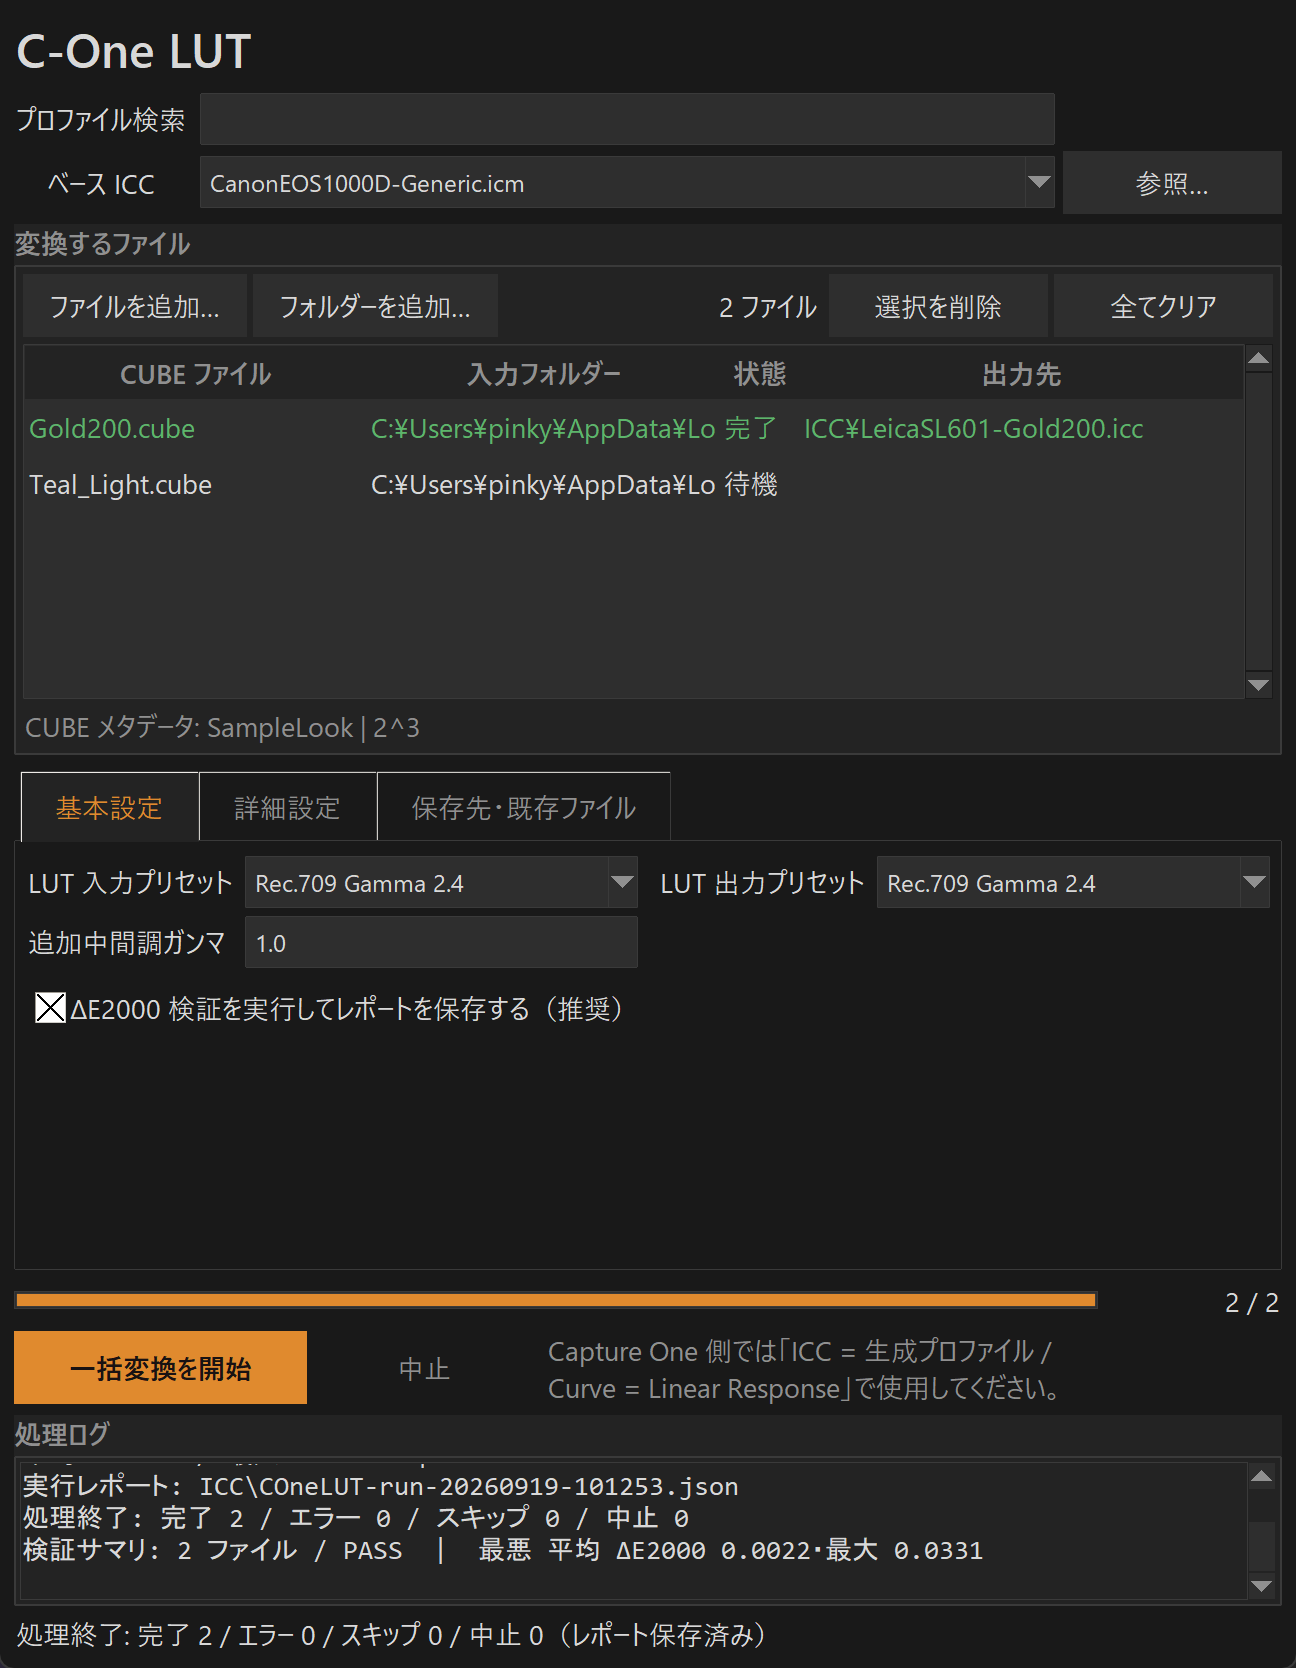
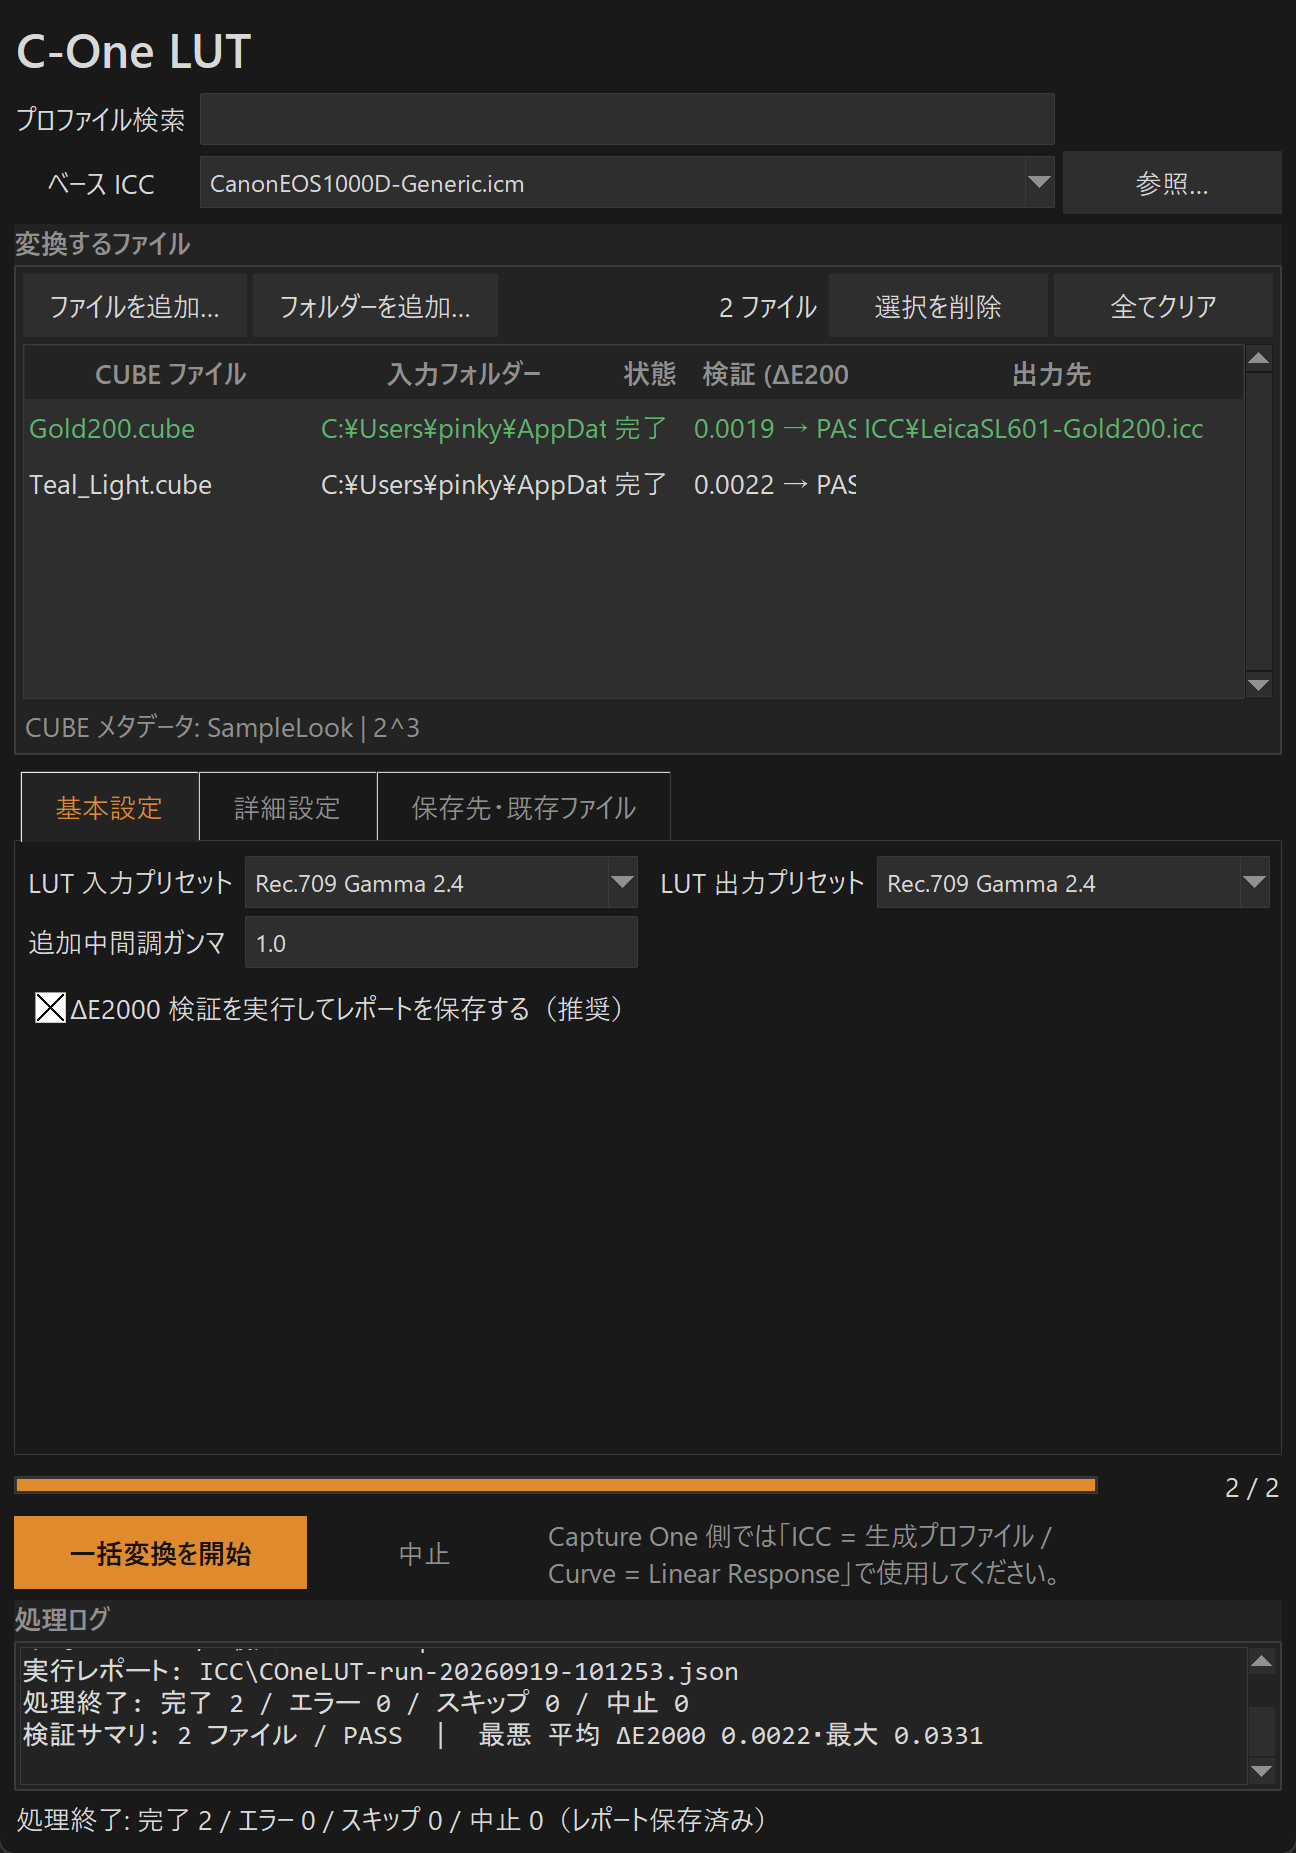
Show validation numbers in the GUI right after conversion

diff --git a/gui.py b/gui.py
@@ -187,11 +187,12 @@ class Cube2IccApp:
         self.control(ttk.Button(toolbar, text="全てクリア", command=self.clear_files)).pack(side=tk.RIGHT)
         self.control(ttk.Button(toolbar, text="選択を削除", command=self.remove_selected)).pack(side=tk.RIGHT, padx=(0, 6))
         ttk.Label(toolbar, textvariable=self.count_text, style="Card.TLabel").pack(side=tk.RIGHT, padx=10)
-        self.tree = ttk.Treeview(queue_frame, columns=("name", "folder", "status", "output"),
+        self.tree = ttk.Treeview(queue_frame, columns=("name", "folder", "status", "verify", "output"),
                                  show="headings", selectmode="extended", height=5)
         for column, label, width, stretch in [
-            ("name", "CUBE ファイル", 230, True), ("folder", "入力フォルダー", 240, True),
-            ("status", "状態", 80, False), ("output", "出力先", 330, True),
+            ("name", "CUBE ファイル", 210, True), ("folder", "入力フォルダー", 210, True),
+            ("status", "状態", 80, False), ("verify", "検証 (ΔE2000 平均)", 170, False),
+            ("output", "出力先", 300, True),
         ]:
             self.tree.heading(column, text=label)
             self.tree.column(column, width=width, minwidth=60, stretch=stretch)
@@ -412,7 +413,7 @@ class Cube2IccApp:
             self.next_row += 1
             self.paths[row] = path
             self.path_rows[key] = row
-            self.tree.insert("", tk.END, iid=row, values=(path.name, str(path.parent), "待機", ""))
+            self.tree.insert("", tk.END, iid=row, values=(path.name, str(path.parent), "待機", "", ""))
             added += 1
         self.count_text.set(f"{len(self.paths)} ファイル")
         if added:
@@ -538,7 +539,7 @@ class Cube2IccApp:
         self.progress.configure(maximum=len(paths), value=0)
         self.progress_text.set(f"0 / {len(paths)}")
         for row, path in self.paths.items():
-            self.tree.item(row, values=(path.name, str(path.parent), "待機", ""), tags=())
+            self.tree.item(row, values=(path.name, str(path.parent), "待機", "", ""), tags=())
         self.log(f"\n{len(paths)} ファイルの変換を開始します。")
         self.log(f"ベース ICC: {base.path}  (PCS: {base.pcs.decode()})")
         self.log(f"CUBE 入力: {params.input_gamut} / {params.input_transfer}  |  "
@@ -694,8 +695,10 @@ class Cube2IccApp:
                                    key=lambda value: {"PASS": 0, "UNVERIFIED": 1, "REVIEW": 2}.get(value, 1))
                 self.log(f"検証サマリ: {validated} ファイル / {worst_status}  |  "
                          f"最悪 平均 ΔE2000 {worst_mean:.4f}・最大 {worst_max:.4f}")
+                summary += f"｜検証 {worst_status}: 最悪 平均 {worst_mean:.4f}・最大 {worst_max:.4f}"
             if report_path is not None:
-                self.status_text.set(f"処理終了: {summary}（レポート保存済み）")
+                summary += "（レポート保存済み）"
+            self.status_text.set(f"処理終了: {summary}")
             return
         _kind, path, output, status, message, _index, total, summary = event
         row = self.path_rows.get(self.path_key(Path(path))) if path is not None else None
@@ -711,6 +714,7 @@ class Cube2IccApp:
             if row is not None:
                 self.tree.set(row, "status", label)
                 self.tree.set(row, "output", str(output or ""))
+                self.tree.set(row, "verify", _verify_cell(summary))
                 self.tree.item(row, tags=(status,))
             self.progress.configure(value=self.completed)
             self.progress_text.set(f"{self.completed} / {total}")
@@ -740,6 +744,14 @@ class Cube2IccApp:
                     return
         finally:
             self.root.after(80, self.poll_events)
+
+
+def _verify_cell(summary: dict | None) -> str:
+    """Compact number for the queue table's 検証 column, e.g. '0.0372 → PASS'."""
+    if not summary or summary.get("mean") is None:
+        return "—" if summary is None else ""
+    status = summary.get("validation_status", "")
+    return f"{summary['mean']:.4f} → {status}" if status else f"{summary['mean']:.4f}"
 
 
 def _scan_profile_files(directory: Path) -> list[str]:

diff --git a/tools/shot_ui.py b/tools/shot_ui.py
@@ -69,8 +69,11 @@ def main() -> None:
             rows = app.tree.get_children()
             if rows:
                 app.tree.set(rows[0], "status", "完了")
+                app.tree.set(rows[0], "verify", "0.0019 → PASS")
                 app.tree.set(rows[0], "output", r"ICC\LeicaSL601-Gold200.icc")
                 app.tree.item(rows[0], tags=("success",))
+                app.tree.set(rows[1], "status", "完了")
+                app.tree.set(rows[1], "verify", "0.0022 → PASS")
             app.progress.configure(maximum=2, value=2)
             app.progress_text.set("2 / 2")
             app.status_text.set("処理終了: 完了 2 / エラー 0 / スキップ 0 / 中止 0（レポート保存済み）")

diff --git a/tests/test_gui_threaded.py b/tests/test_gui_threaded.py
@@ -65,6 +65,9 @@ def test_threaded_conversion_completes(tk_root, tmp_path):
     assert "完了 1" in status, status
     row = next(iter(app.path_rows.values()))
     assert app.tree.item(row, "values")[2] == "完了"
+    # The queue table shows the verification numbers right after conversion.
+    verify = app.tree.set(row, "verify")
+    assert "→" in verify and verify.endswith("PASS")
     outputs = list((tmp_path / "out").glob("*.icc"))
     reports = list((tmp_path / "out").glob("COneLUT-run-*.json"))
     assert len(outputs) == 1
